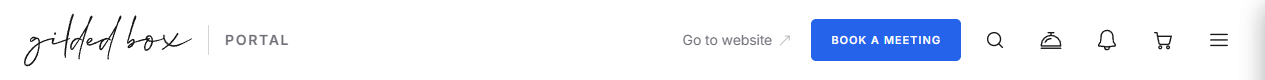
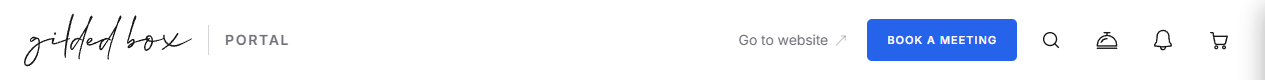
fix(portal): the burger goes back to the compact bar it belongs to
Ton, off his own width: «что за гамбургер появился справа». The row
unification is what let it out. header.css hides .gbh-pbar__burger
with display:none, button.css loads after it, and .gb-btn declares
display:inline-flex at the same specificity, so the moment the
burger joined the one icon recipe it won the cascade and stood on
the desktop next to the cart.

The page sheet is last in the order, so the hide is restated there
and the compact step at 900 turns it back on. Measured: six children
in the cluster at 1280 with the burger gone, one at 900 and at 360
with the burger the only one left.

Changed region(s): [[0.5241, 0.225, 0.9249, 0.775], [0.9557, 0.4, 0.9866, 0.625]]

diff --git a/live/portal-dashboard.html b/live/portal-dashboard.html
@@ -876,6 +876,17 @@ body:not([data-pth]) .gbh-pbar { display: none; }
    already outranked by the button's two-class ink, which is the point
    of keeping both names on one element. */
 .gbh-pbar__actions .gb-btn--icon { position: relative; }
+/* AND THE BURGER IS COMPACT-ONLY, WHICH THE ORGANISM UNDID (Ton, off
+   his own width: «что за гамбургер появился справа»). header.css
+   hides .gbh-pbar__burger with display:none, but button.css loads
+   AFTER it and .gb-btn declares display:inline-flex at the same
+   specificity, so the moment the burger joined the one icon recipe
+   it won the cascade and appeared on the desktop. The page sheet is
+   last, so the hide is restated here and the compact step below
+   turns it back on. Same trap as .gbh-count[hidden] at the top of
+   this file: a display rule beats a display rule by order, not by
+   intention. */
+.gbh-pbar__actions .gb-btn--icon.gbh-pbar__burger { display: none; }
 @media (max-width: 900px) {
   .gbh-pbar__actions .gb-btn--icon.gbh-pbar__icon,
   .gbh-pbar__actions [data-gbhc-bell] { display: none; }
